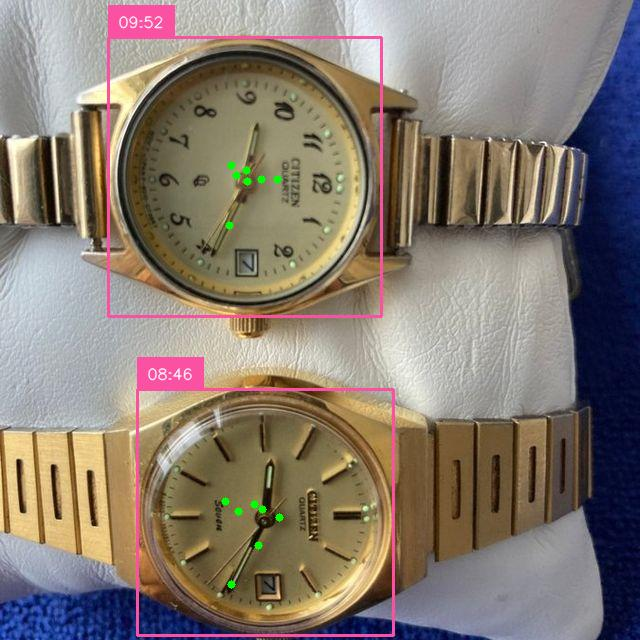
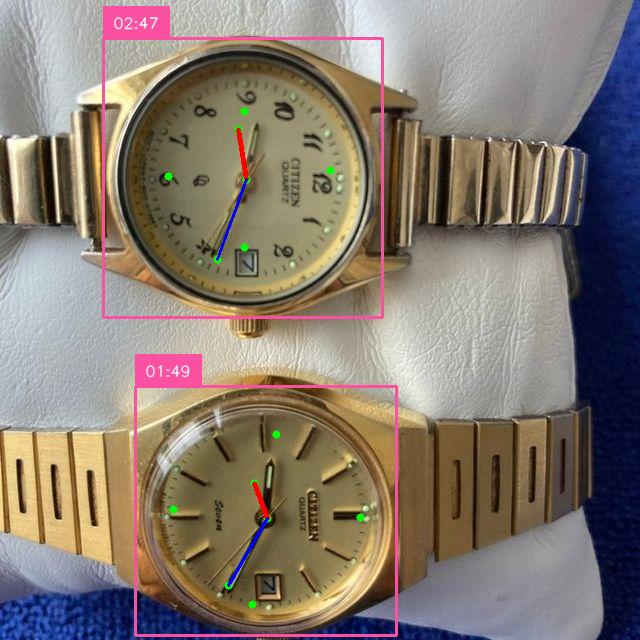
Fixes draw_hands in the inference script

diff --git a/src/watch_recognition/inference.py b/src/watch_recognition/inference.py
@@ -165,5 +165,6 @@ if __name__ == "__main__":
     
     annotate_image(Path(args.input), 
                 Path(args.output), 
-                Path(args.model)
-                )
+                Path(args.model),
+                args.home,
+                args.draw_hands)
